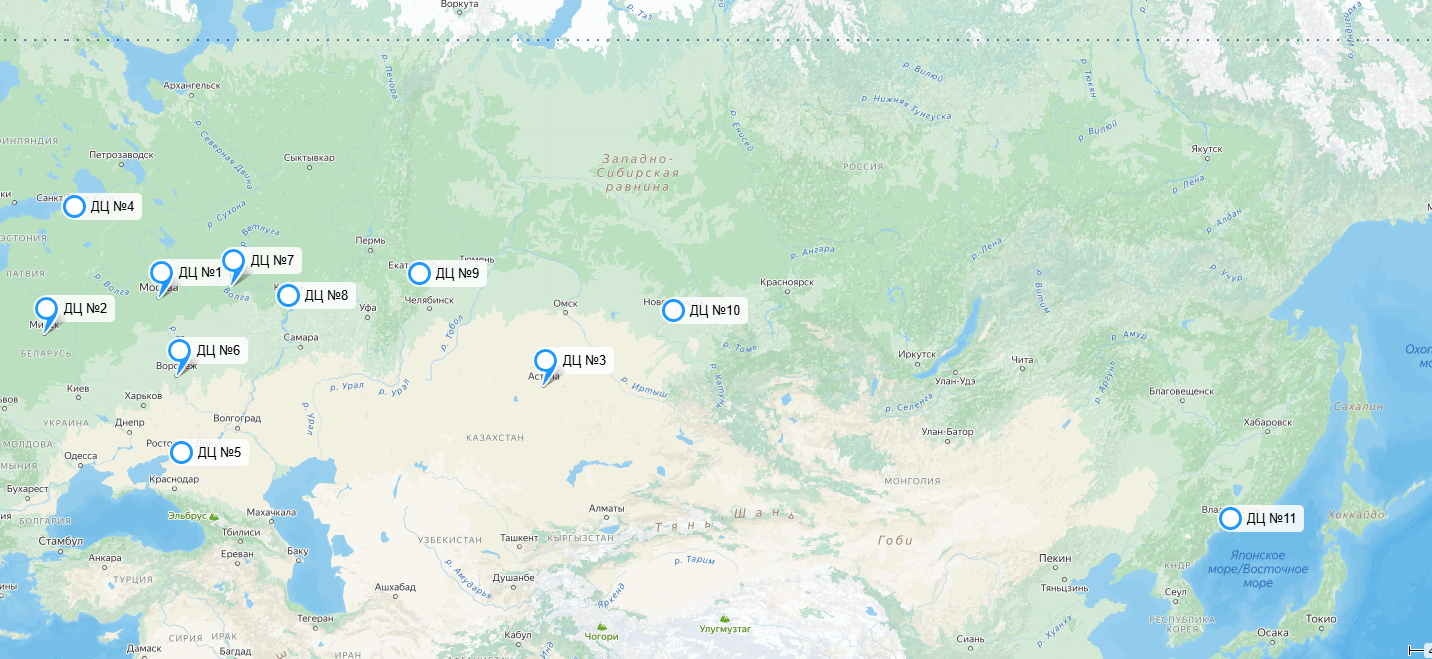
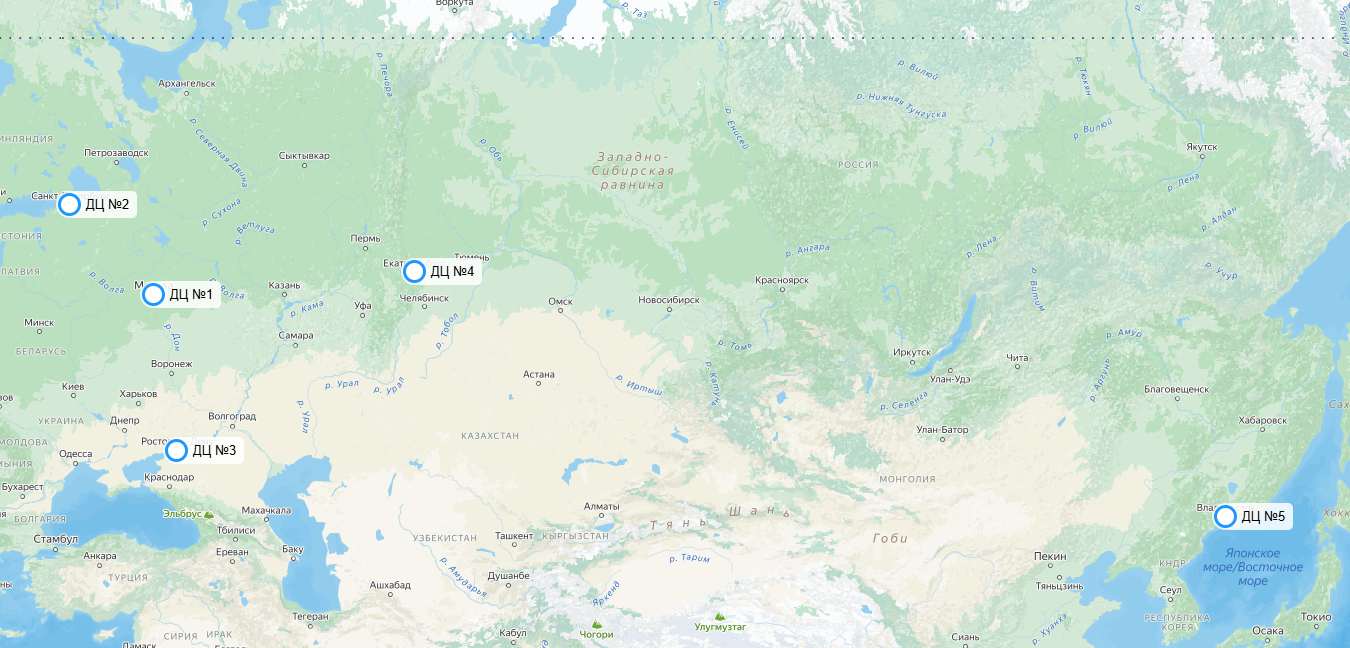
fix: 2 and 3 task

diff --git a/README.md b/README.md
@@ -48,7 +48,7 @@
 
 - Список избранного - Пользователи могут добавлять фильмы в "Избранное" для быстрого доступа к ним позже.  
 
-- История просмотров - Возможность продолжить просмотр с того места, где пользователь остановился.  
+- Досмотр контента - Возможность продолжить просмотр с того места, где пользователь остановился.  
 
 - Рекомендательная система - Формирование списка рекомендаций на основе просмотренных фильмов и проставленных оценок.
 
@@ -62,34 +62,39 @@
 
 ## Продуктовые метрики
 
-Всего на кинопоиске к середине 2020г. было **7770** фильмов[^6]. Предположим, что к текущему году количество фильмов возросло и примем общее число фильмов и сериалов на кинопоиске равным 8000.
+Всего на Кинопоиске к концу 2023г. около **11000** тайтлов[^6].
 
 Средняя продолжительность фильма в последние годы возросла до 120-130 минут, согласно анализу данных базы IMDB[^7]. Также, одна серия одного сериала в среднем занимает 40 минут. 
 
 Таким образом, средний размер одного файла в разрешении **4K** составляет **35 ГБ** (20 ГБ одна 40-минутная серия сериала и 50 ГБ двухчасовой фильм[^8] => (20 ГБ + 50 ГБ)/2 = 35ГБ). Это даёт:
 
 - **Общий объём 4K контента:**
-  - `8000 × 35 ГБ = 280000 ГБ = 280 ТБ = 0,28 ПБ`
+  - `11000 × 35 ГБ = 280000 ГБ = 280 ТБ = 0,385 ПБ`
 
 Также существуют версии контента в **1080p**, **720p**, **480p** и **360p**:
 
-- **1080p** (~1/4 от 4K): `7 ГБ × 8000 = 56 ТБ = 0,056 ПБ`
-- **720p** (~1/8 от 4K): `4,4 ГБ × 8000 = 35,2 ТБ = 0,0352 ПБ`
-- **480p** (~1/12 от 4K): `2,9 ГБ × 8000 = 23,2 ТБ = 0,0232 ПБ`
-- **360p** (~1/18 от 4K): `1,75 ГБ × 8000 = 14 ТБ = 0,014 ПБ`
+- **1080p** (~1/4 от 4K): `7 ГБ × 11000 = 56 ТБ = 0,077 ПБ`
+- **720p** (~1/8 от 4K): `4,4 ГБ × 11000 = 35,2 ТБ = 0,0484 ПБ`
+- **480p** (~1/12 от 4K): `2,9 ГБ × 11000 = 23,2 ТБ = 0,0319 ПБ`
+- **360p** (~1/18 от 4K): `1,75 ГБ × 11000 = 14 ТБ = 0,0193 ПБ`
 
-Итоговый объем видеохранилища: **0,41 ПБ**
+Итоговый объем видеохранилища: **0,562 ПБ**
 
 Далее высчитаем объем пользовательских данных
 К пользовательской информации относятся имя, возраст, описание, пол, страна и город проживания, ссылки на соцсети и интересы. Данная текстовая информация занимает до нескольких килобайт. Кроме того пользователь мжет поставить аватарку на свой профиль. На странице редактирования профиля[^9] можно увидеть информацию о том, что аватар пользователя не должен превышать 2 МБ. Примем эту верхнюю оценку.
-С помощью популярного формата WebP фото сжимается на 25-30%[^10], поэтому при расчете общего объема пользовательских данных допольнительно умножим его на 0,7.
+Расчитаем, насколько ужимается аватар, после её загрузки в профиль на практике.
+
+![Демографические показатели](assets/squeeze.png)
+
+Изначальный размер фотографии - 141Кб. После скачивания уже загруженного аватара его размер стал 6,4 Кб. Таким образом, в среднем фотография ужимается в **141/6,4 ~ 22 раза**. Тогда общий объем пользовательских данных составит:
+
 - **Средний объём на пользователя:** ~ **2 МБ**
 - **Общий объём хранения данных пользователей:**
-  - `14 000 000 × 2 МБ × 0,7  = 19 600 000 МБ = 19,6 ТБ = 0,0196 ПБ`
+  - `14 000 000 × 2 МБ / 22  = 1 272 727,3 МБ = 1,3 ТБ = 0,0013 ПБ`
 
 Хранение рецензий и оценок
 - **Средний вес одной рецензии:** **1 КБ** (1000 символов ASCII)
-- **Общее количество рецензий:** **834 641**[^11]
+- **Общее количество рецензий:** **834 641**[^10]
 - **Общий объем рецензий:**
   - `1 КБ × 834 641 = 0,8 ГБ`
 - **Запас хранения + оценки:** **1 ГБ**
@@ -97,10 +102,10 @@
 ## Общий размер хранилища
 | Компонент | Объём |
 |-----------|-------|
-| Видеоконтент | **0,41 ПБ** |
-| Данные пользователей | **0,0196 ПБ** |
+| Видеоконтент | **0,562 ПБ** |
+| Данные пользователей | **0,0013 ПБ** |
 | Рецензии и оценки | **1 ГБ** |
-| **ИТОГО** | **~0,43 ПБ** |
+| **ИТОГО** | **~0,563 ПБ** |
 
 ### Действия пользователя в день
 
@@ -108,12 +113,13 @@
 
 - **Авторизация** — в среднем **1 раз в день** (просмотр контента требует авторизации).
 - **Покупка подписки** — обычно пользователь покупает подписку ежемесячно, но так же есть возможно офромить ее на 3, 6 и 12 месяцев. Примем за среднее - 3 месяца, поэтому 1/90 = значит **0,01 раз в день**.
-- **Просмотр контента** — в 2024 году подписчики в среднем смотрят **34,6 тайтлов** и **11 спортивных трансляций** в год[^12]. Примем длительность спортивного события равной средней длительности одного тайтла - 2 часа. Тогда всего за год пользователь смотрит 45,6 * 2 = 91,2 часов. Это равняется 91,2*60/365 = **15 минут в день**.
+- **Просмотр контента** — в 2024 году подписчики в среднем смотрят **34,6 тайтлов** и **11 спортивных трансляций** в год[^11]. Примем длительность спортивного события равной средней длительности одного тайтла - 2 часа. Тогда всего за год пользователь смотрит 45,6 * 2 = 91,2 часов. Это равняется 91,2*60/365 = **15 минут в день**.
 - **Оценка контента** — в 2023 году пользователи оставили **180 млн оценок**, это **6 млн оценок в день**, или **~0,27 оценок на пользователя в день**.
 - **Оставление рецензий** — на платформе **834 641 рецензий**, ежедневно публикуются **~400 новых**, значит **~0,000018 рецензий на пользователя в день**.
-- **Поиск контента** — **4 раза в день**[^13].
+- **Поиск контента** — **4 раза в день**[^12].
 - **Рекомендации** — рекомендательная система строится на основе просмотра интересующего контента и оставлении оценки, а значит перестраивается примерно 0,27 р/день + 15 мин/день **≈ 1 раз в день**.
 - **Добавление в избранное** - по статистике лишь каждый 10-ый фильм пользователь добавляет в избранное, а значит 4*0,1 **~ 0,4 раза в день**
+- **Досмотр контента** - в среднем пользователь заходит на главную страницу **1 раз в день**, но долистывает до списка **каждый 10**, то частота **≈ 0,1 раз в день**
 
 ### Таблица частоты действий
 | Действие | Частота в день |
@@ -126,6 +132,21 @@
 | Оставление рецензии | 0,000018 |
 | Рекомендации | 1 |
 | Добавление в избранное | 0,4 |
+| Досмотр контента | 0,1 |
+
+### Прирост дискового пространства
+
+Согласно источнику[^13], на конец 2023г, количество подписчиков Кинопоиска на конец 2023г. составляло 11,1 млн. чел. При этом, к концу 2024г. их количество возросло до 14 млн. чел. Значит прирост пользовательских данных за год составляет **(14 000 000 - 11 100 000) * 2 МБ / 22 ≈ 264 000 МБ = 0,264 ТБ**
+
+Как уже было сказано, на Кинопоиске к концу 2023г. было **11000** тайтлов. При этом, к середине 2020г. их было около **8000**[^14]. На основании чего можно сделать вывод, что за год количество тайтлов возрастает примерно на **1000**. Как уже было вычислено, для **11000** тайтлов размер видеохранилища составляет **0,562 ПБ**. Значит прирост дискового пространства в год составит **1/11** часть: **0,562 ПБ / 11 ≈ 0,051 ПБ**
+
+Прирост рецензий и оценок незначителен (порядка 0,5 ГБ), так что ими можно пренебречь.
+
+| Компонент | Объём |
+|-----------|-------|
+| Видеоконтент | **0,051 ПБ** |
+| Данные пользователей | **0,264 ТБ** |
+| **ИТОГО** | **~0,0513 ПБ** |
 
 ## Технические метрики
 
@@ -141,6 +162,7 @@
 | Оставление рецензии | `0,000018 × 2 600 000 / 86400` | **0,0005** |
 | Рекомендации | `1 × 2 600 000 / 86400` | **30** |
 | Добавление в избранное | `0,4 × 2 600 000 / 86400` | **12** |
+| Досмотр контента | `0,1 × 2 600 000 / 86400` | **3** |
 
  - `*` - деление на 10 из-за буфферизации контента - получение данных пачками по 10 секунд. 
 
@@ -209,22 +231,25 @@
 
 ![Плотность населения России](assets/population.png)
 
-Ключевые дата-центры размещены в столицах: **Москва, Астана, Минск**, так как там сосредоточена значительная часть целевой аудитории. 
+Ключевые дата-центры размещены в : **Москве, Санкт-Петербурге, Екатеринбурге**, так как там сосредоточена значительная часть целевой аудитории. 
 
-Учитывая большую территорию России разместим 8 дополнительных дата центров для работы на ее территории в крупных городах. После географического анализа были выбраны следующие:
+Учитывая большую территорию России разместим 2 дополнительных дата центра для работы на ее территории в крупных городах. После географического анализа были выбраны следующие:
 
-- **Санкт-Петербург**
 - **Ростов-на-Дону**
-- **Воронеж**
-- **Нижний Новгород**
-- **Казань**
-- **Екатеринбург** 
-- **Новосибирск** 
-- **Владивосток** 
+- **Владивосток**
 
 ![Распределение дата центров](assets/datacentres.png)
 
 ## Распределение запросов по дата-центрам
+
+### Разбиение RPS по Датацентрам
+
+Ориентируясь на карту магистральных сетей, составим разбиение RPS по датацентрам.
+
+|Москва (25%)|Санкт-Петербург (25%)|Ростов-на-Дону (20%)|Екатеринбург (20%)|Владивосток (10%)|
+|-----|-----|-----|-----|-----|
+|**727,85**|**727,85**|**582,28**|**582,28**|**291,14**|
+
 
 Каждый ДЦ хранит полный объём видеоконтента сервиса, поэтому все запросы на просмотр и поиск фильмов направляются в ближайший ДЦ по географическому принципу.
 
@@ -233,8 +258,6 @@
 **Города, обрабатывающие запросы на регистрацию, авторизацию и оформление подписки:**
 - **Москва** (Россия)
 - **Санкт-Петербург** (Россия)
-- **Минск** (Беларусь)
-- **Астана** (Казахстан)
 - **Екатеринбург** (Россия)
 
 Если пользователь пытается авторизоваться в городе, где нет центра обработки таких запросов, его запрос будет проксироваться в ближайший менее загруженный ДЦ из списка выше.
@@ -323,7 +346,7 @@ Kubernetes автоматически распределяет нагрузку 
 
 [^5]: [Статистика от WebArchive](https://web.archive.org/web/20231129184042/https://radar.yandex.ru/yandex?month=2022-05)
 
-[^6]: [Информация о подписке Яндекс.Плюс](https://www.kinopoisk.ru/media/news/4002246/)
+[^6]: [Комментарий пресс-службы Кинопоиска РБК](https://www.rbc.ru/technology_and_media/16/11/2023/65548b529a7947815e93d67b)
 
 [^7]: [Средняя продолжительность фильмов](https://www.vedomosti.ru/gorod/leisuretime/articles/barbi-oppengeimer-i-avatar-pochemu-filmi-stali-takimi-dlinnimi)
 
@@ -331,10 +354,12 @@ Kubernetes автоматически распределяет нагрузку 
 
 [^9]: [Страница редактирования профиля](https://www.kinopoisk.ru/mykp/edit_main/)
 
-[^10]: [Формат WebP](https://thecode.media/webp/)
+[^10]: [Рецензии на кинопоиске](https://www.kinopoisk.ru/reviews/)
 
-[^11]: [Рецензии на кинопоиске](https://www.kinopoisk.ru/reviews/)
+[^11]: [Итоги 2024 года](https://habr.com/ru/news/868442/)
 
-[^12]: [Итоги 2024 года](https://habr.com/ru/news/868442/)
+[^12]: [Исследование страницы персоны Кинопоиска](https://medium.com/@IngMaeSing/kinopoisk-person-page-research-4f33e5b4d318)
 
-[^13]: [Исследование страницы персоны Кинопоиска](https://medium.com/@IngMaeSing/kinopoisk-person-page-research-4f33e5b4d318)
+[^13]: [Подписчики российских онлайн-кинотеатров на конец 2023г.](https://vc.ru/media/1009380-kolichestvo-podpischikov-u-rossiiskih-onlain-kinoteatrov-na-konec-2023-goda-prevysilo-452-mln-telecomdaily)
+
+[^14]: [Информация о подписке Яндекс.Плюс](https://www.kinopoisk.ru/media/news/4002246/)
